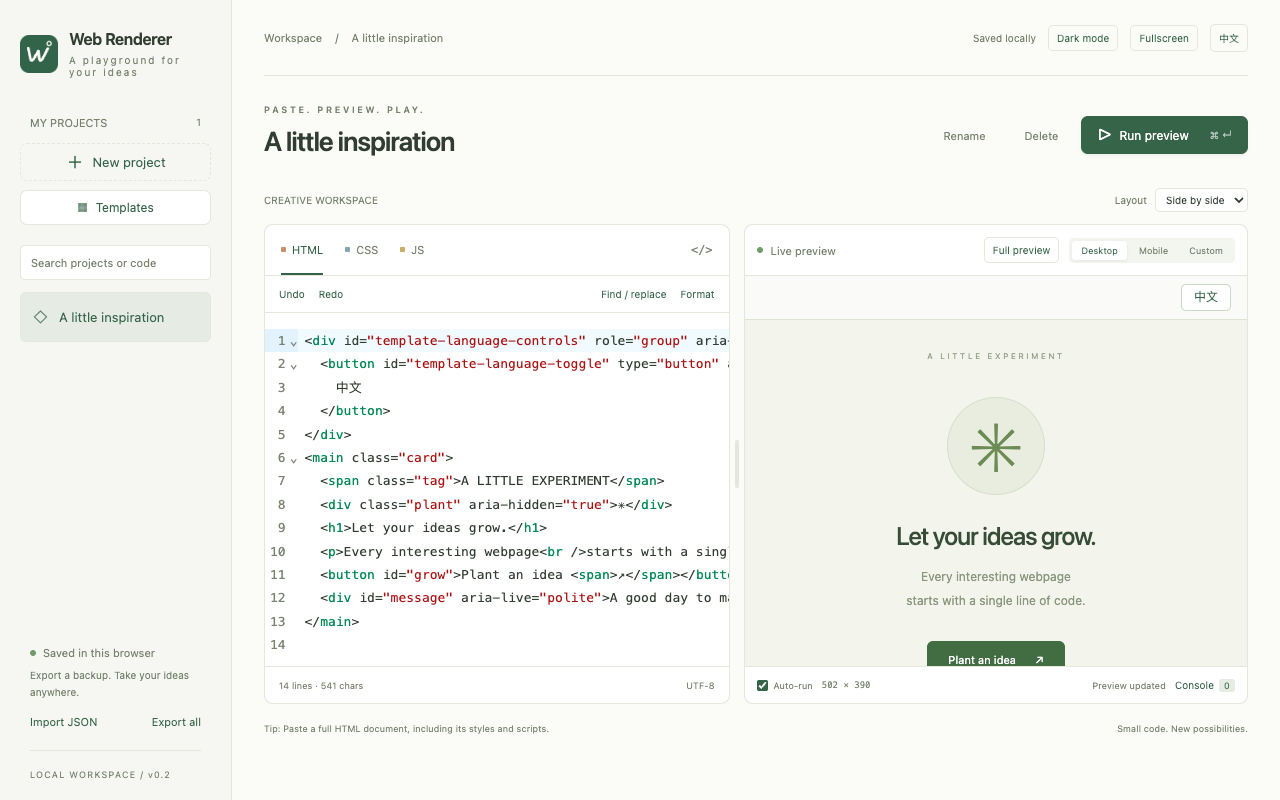
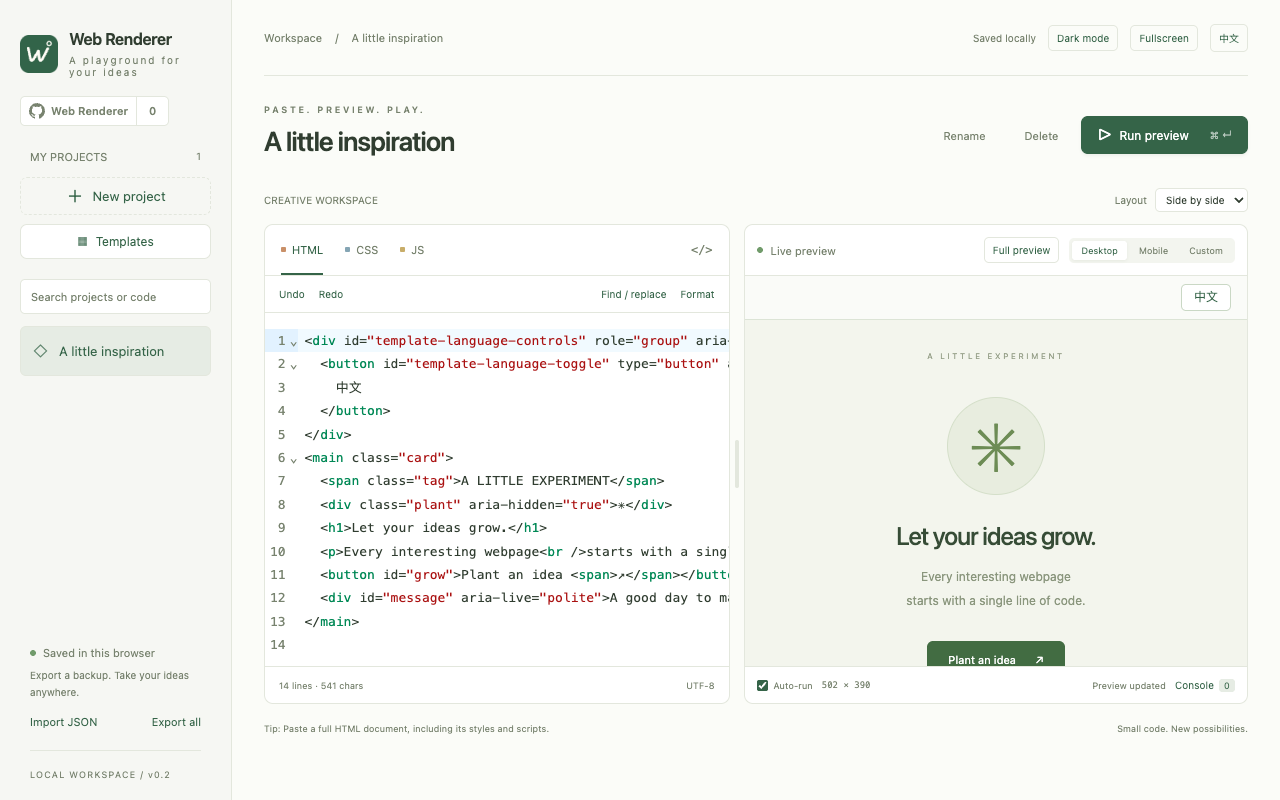
Add Edge install link, GitHub star badge and store screenshots

Changed region(s): [[0.0, 0.1875, 0.1875, 0.4062], [0.0, 0.125, 0.0938, 0.1562], [0.0625, 0.4375, 0.125, 0.4688]]

diff --git a/i18n.js b/i18n.js
@@ -1,5 +1,6 @@
 export const messages = {
   zh: {
+    githubStars: "在 GitHub 查看 Web Renderer · {count} 个 Star（新标签页）", githubCached: "在 GitHub 查看 Web Renderer · {count} 个 Star（缓存，新标签页）", githubUnavailable: "在 GitHub 查看并 Star Web Renderer（数量暂不可用，新标签页）",
     previewTemplate: "预览", templatePreviewTitle: "预览 · {name}", useTemplate: "使用此模板", backToTemplates: "返回模板库", templatePreviewHint: "可直接体验交互，使用模板后编辑代码。",
     resizeConsole: "调整控制台高度", resizeConsoleHint: "上下拖动调整高度，双击恢复默认；也可使用上下方向键",
     templates: "模板库", templatesHint: "选择一个起点，创建属于你的新项目。", close: "关闭", searchProjects: "搜索项目名称或代码", noProjects: "没有找到匹配的项目", workspaceTools: "创作工作台", layout: "布局", sideLayout: "左右分栏", stackedLayout: "上下分栏", resizePanels: "调整编辑区和预览区大小", undo: "撤销", redo: "重做", findReplace: "查找 / 替换", format: "格式化", formatFailed: "无法格式化，请检查代码语法。", formatCancelled: "代码已改变，本次格式化未覆盖新内容。", custom: "自定义", width: "宽", height: "高", rotate: "旋转", console: "控制台", consoleLevel: "级别", allLogs: "全部", normalLogs: "日志", warnings: "警告", errors: "错误", preserveLogs: "保留日志", clear: "清空", collapse: "收起", noLogs: "暂无日志，试试 console.log('Hello')。", consoleNewRun: "── 新一次运行 ──", dayMode: "日间模式", nightMode: "夜间模式",
@@ -7,6 +8,7 @@ export const messages = {
     brandSub: "你的网页实验室", projects: "我的项目", newProject: "新建项目", localOnly: "保存在这台浏览器", backupHint: "导出一份备份，把灵感带到别处。", import: "导入 JSON", export: "导出全部", workspace: "工作空间", rename: "重命名", delete: "删除", run: "运行预览", preview: "实时预览", desktop: "桌面", mobile: "手机", autoRun: "自动运行", runtimeError: "JavaScript 错误", tip: "小提示：完整 HTML 也可以直接粘贴，样式与脚本会一起运行。", footer: "一点代码，一点可能。", projectName: "项目名称", cancel: "取消", confirm: "确定", saved: "已保存到本地", saveFailed: "保存失败，请导出备份", loadFailed: "本地数据暂时无法读取，原始数据已保留。当前修改无法保存，请导出备份。", exampleName: "第一颗灵感", untitled: "未命名项目", lines: "行", chars: "字符", running: "正在渲染…", rendered: "预览已更新", previewFailed: "预览未响应，请重新运行", pending: "代码已修改，待运行", imported: "已导入 {count} 个项目副本", exported: "已导出全部项目", importFailed: "导入失败：请选择有效的 Web Renderer JSON 备份。", tooLarge: "文件过大，请使用 4 MB 以内的 JSON 备份。", projectLimit: "最多支持 100 个项目，请先导出并清理。", confirmDelete: "删除「{name}」？此操作无法撤销，建议先导出备份。", deleted: "项目已删除", synced: "已同步其他标签页的修改", emptyName: "请输入项目名称。", exportFailed: "导出失败，请重试。", previewTitle: "网页预览", errorStatus: "发现脚本错误", backupTooLarge: "数据超过 4 MB，请拆分项目后再保存。"
   },
   en: {
+    githubStars: "View Web Renderer on GitHub · {count} stars (new tab)", githubCached: "View Web Renderer on GitHub · {count} stars (cached, new tab)", githubUnavailable: "View and star Web Renderer on GitHub (count unavailable, new tab)",
     previewTemplate: "Preview", templatePreviewTitle: "Preview · {name}", useTemplate: "Use template", backToTemplates: "Back to templates", templatePreviewHint: "Try the interactions, then use the template to edit its code.",
     resizeConsole: "Resize console height", resizeConsoleHint: "Drag vertically to resize; double-click to reset. Arrow keys also work.",
     templates: "Templates", templatesHint: "Pick a starting point and create a new project.", close: "Close", searchProjects: "Search projects or code", noProjects: "No matching projects", workspaceTools: "CREATIVE WORKSPACE", layout: "Layout", sideLayout: "Side by side", stackedLayout: "Stacked", resizePanels: "Resize editor and preview", undo: "Undo", redo: "Redo", findReplace: "Find / replace", format: "Format", formatFailed: "Cannot format. Check the code syntax.", formatCancelled: "The code changed; formatting was not applied.", custom: "Custom", width: "W", height: "H", rotate: "Rotate", console: "Console", consoleLevel: "Level", allLogs: "All", normalLogs: "Logs", warnings: "Warnings", errors: "Errors", preserveLogs: "Preserve", clear: "Clear", collapse: "Hide", noLogs: "No logs yet. Try console.log('Hello').", consoleNewRun: "── New run ──", dayMode: "Light mode", nightMode: "Dark mode",

diff --git a/tests/github-badge.spec.js b/tests/github-badge.spec.js
@@ -1,0 +1,48 @@
+import { test, expect } from "@playwright/test";
+const url = "http://127.0.0.1:4173";
+const api = "https://api.github.com/repos/kiritokun07/web-renderer";
+const key = "web-renderer.github-stars.v1";
+
+test("GitHub count is credential-free, cached, translated and usable on narrow screens", async ({ page }) => {
+  let requests = 0;
+  await page.route(api, async route => {
+    requests++;
+    expect(route.request().headers().cookie).toBeUndefined();
+    expect(route.request().postData()).toBeNull();
+    await route.fulfill({ json: { stargazers_count: 2051 } });
+  });
+  await page.goto(url);
+  await expect(page.locator(".github-stars")).toHaveText("2,051");
+  await expect(page.locator("#github-link")).toHaveAttribute("href", "https://github.com/kiritokun07/web-renderer");
+  await expect(page.locator("#github-link")).toHaveAttribute("rel", "noopener noreferrer");
+  await page.locator("#language").click();
+  await expect(page.locator("#github-link")).toHaveAttribute("aria-label", /2,051 stars/);
+  await page.reload();
+  await expect(page.locator("#github-link")).toHaveAttribute("title", /cached/);
+  expect(requests).toBe(1);
+  await page.locator("#theme-toggle").click();
+  await page.setViewportSize({ width: 390, height: 844 });
+  await expect(page.locator("#github-link")).toBeVisible();
+  const box = await page.locator("#github-link").boundingBox();
+  expect(box.x + box.width).toBeLessThanOrEqual(390);
+});
+
+test("zero is a valid star count; a failed refresh preserves stale cache", async ({ page }) => {
+  await page.addInitScript(({key}) => localStorage.setItem(key, JSON.stringify({count: 0, at: Date.now() - 86400000})), { key });
+  await page.route(api, route => route.fulfill({ status: 403, json: { message: "rate limited" } }));
+  await page.goto(url);
+  await expect(page.locator(".github-stars")).toHaveText("0");
+  await expect(page.locator("#github-link")).toHaveAttribute("title", /缓存/);
+  await expect(page.locator("#preview-status")).toHaveText("预览已更新");
+});
+
+test("offline or malformed data never invents a count or blocks editing", async ({ page }) => {
+  await page.route(api, route => route.fulfill({ json: { stargazers_count: "invalid" } }));
+  await page.goto(url);
+  await expect(page.locator(".github-stars")).toHaveText("Star");
+  await expect(page.locator("#preview-status")).toHaveText("预览已更新");
+  await page.route(api, route => route.abort("internetdisconnected"));
+  await page.reload();
+  await expect(page.locator(".github-stars")).toHaveText("Star");
+  await expect(page.locator("#preview-status")).toHaveText("预览已更新");
+});

diff --git a/github-badge.js b/github-badge.js
@@ -1,0 +1,42 @@
+const API = "https://api.github.com/repos/kiritokun07/web-renderer";
+const CACHE_KEY = "web-renderer.github-stars.v1";
+const CACHE_AGE = 6 * 60 * 60 * 1000;
+const validCount = value => Number.isSafeInteger(value) && value >= 0;
+
+export function createGithubBadge(link, t) {
+  const count = link.querySelector(".github-stars");
+  let stars = null;
+  let cached = false;
+  const refresh = () => {
+    count.textContent = stars === null ? "Star" : stars.toLocaleString("en-US");
+    const label = stars === null ? t("githubUnavailable") : t(cached ? "githubCached" : "githubStars", { count: count.textContent });
+    link.title = label;
+    link.setAttribute("aria-label", label);
+  };
+  const load = async () => {
+    let saved;
+    try { saved = JSON.parse(localStorage.getItem(CACHE_KEY)); } catch { /* Storage may be unavailable. */ }
+    if (validCount(saved?.count) && Number.isFinite(saved?.at) && saved.at <= Date.now()) {
+      stars = saved.count;
+      cached = true;
+      refresh();
+      if (Date.now() - saved.at < CACHE_AGE) return;
+    }
+    const controller = new AbortController();
+    const timer = setTimeout(() => controller.abort(), 5000);
+    try {
+      // Public CORS API only: no token, cookies, project data or host permissions.
+      const response = await fetch(API, { credentials: "omit", referrerPolicy: "no-referrer", signal: controller.signal });
+      if (!response.ok) throw new Error("GitHub is unavailable");
+      const data = await response.json();
+      if (!validCount(data.stargazers_count)) throw new Error("Invalid star count");
+      stars = data.stargazers_count;
+      cached = false;
+      try { localStorage.setItem(CACHE_KEY, JSON.stringify({ count: stars, at: Date.now() })); } catch { /* Keep the count in memory. */ }
+    } catch { /* Keep cached data or a usable Star link; never block the editor. */ }
+    finally { clearTimeout(timer); refresh(); }
+  };
+  refresh();
+  void load();
+  return { refresh };
+}

diff --git a/index.html b/index.html
@@ -12,6 +12,9 @@
 <body>
   <aside class="sidebar">
     <a class="brand" href="index.html" aria-label="Web Renderer"><img class="brand-mark" src="icons/icon-48.png" alt="" width="38" height="38"><span>Web Renderer<small data-i18n="brandSub">你的网页实验室</small></span></a>
+    <a id="github-link" class="github-badge" href="https://github.com/kiritokun07/web-renderer" target="_blank" rel="noopener noreferrer" aria-label="在 GitHub 查看 Web Renderer">
+      <span class="github-repo"><svg viewBox="0 0 16 16" width="16" height="16" aria-hidden="true"><path fill="currentColor" d="M8 0C3.58 0 0 3.58 0 8c0 3.54 2.29 6.53 5.47 7.59.4.07.55-.17.55-.38l-.01-1.49c-2.23.48-2.7-1.08-2.7-1.08-.36-.92-.89-1.17-.89-1.17-.73-.5.06-.49.06-.49.8.06 1.22.82 1.22.82.71 1.22 1.87.87 2.33.67.07-.52.28-.87.51-1.07-1.78-.2-3.64-.89-3.64-3.95 0-.87.31-1.59.82-2.15-.08-.2-.36-1.02.08-2.12 0 0 .67-.21 2.2.82A7.65 7.65 0 0 1 8 3.73c.68 0 1.36.09 2 .27 1.53-1.03 2.2-.82 2.2-.82.44 1.1.16 1.92.08 2.12.51.56.82 1.28.82 2.15 0 3.07-1.87 3.75-3.65 3.95.29.25.54.73.54 1.48l-.01 2.33c0 .21.15.46.55.38A8.01 8.01 0 0 0 16 8c0-4.42-3.58-8-8-8Z"/></svg><span>Web Renderer</span></span><span class="github-stars">Star</span>
+    </a>
     <div class="sidebar-heading"><span data-i18n="projects">我的项目</span><span id="project-count" class="count">1</span></div>
     <button id="new-project" class="button new-project"><span aria-hidden="true">＋</span><span data-i18n="newProject">新建项目</span></button>
     <button id="open-templates" class="button templates-button"><span aria-hidden="true">▦</span><span data-i18n="templates">模板库</span></button>

diff --git a/styles.css b/styles.css
@@ -194,3 +194,13 @@ dialog { background: var(--panel); }
   .top-actions button { font-size: 9px; }
 }
 @media (max-width: 400px) { .template-grid { grid-template-columns: 1fr; } .preview-panel .panel-toolbar { padding: 9px; } .device-button { padding: 4px 6px; } }
+
+/* Compact repository + star count, using workspace colors in both themes. */
+.github-badge { display: inline-flex; align-self: flex-start; align-items: stretch; max-width: 100%; margin-top: 18px; border: 1px solid var(--line); border-radius: 5px; color: var(--muted); background: var(--panel); text-decoration: none; font-size: 11px; font-weight: 600; line-height: 28px; }
+.github-badge:hover { color: var(--green); border-color: var(--green); background: var(--surface); }
+.github-repo { display: inline-flex; align-items: center; gap: 6px; padding: 0 8px; min-width: 0; }
+.github-repo svg { flex-shrink: 0; }
+.github-repo span { overflow: hidden; text-overflow: ellipsis; white-space: nowrap; }
+.github-stars { border-left: 1px solid var(--line); padding: 0 8px; min-width: 32px; text-align: center; font-variant-numeric: tabular-nums; }
+.github-badge + .sidebar-heading { margin-top: 24px; }
+@media (max-width: 800px) { .github-badge { grid-column: 1 / -1; grid-row: 3; justify-self: start; margin-top: 0; } }

diff --git a/app.js b/app.js
@@ -8,6 +8,7 @@ import { templates } from "./templates.js";
 import { builtinCode } from "./builtin-code.js";
 import { createTemplatePreview } from "./template-preview.js";
 import { legacyTemplateCode } from "./legacy-template-code.js";
+import { createGithubBadge } from "./github-badge.js";
 
 const $ = selector => document.querySelector(selector);
 const preview = $("#preview");
@@ -50,6 +51,7 @@ const editor = createCodeEditor($("#code-editor"), handleCodeChange);
 const debugConsole = createConsolePanel(t, () => state.preferences, save);
 const previewLayout = createPreviewLayout(() => state.preferences, save, t);
 const templatePreview = createTemplatePreview(t);
+const githubBadge = createGithubBadge($("#github-link"), t);
 
 function toast(message) {
   clearTimeout(toastTimer);
@@ -184,6 +186,7 @@ function showProject() {
 }
 
 function translate() {
+  githubBadge.refresh();
   document.documentElement.lang = state.language === "zh" ? "zh-CN" : "en";
   document.querySelectorAll("[data-i18n]").forEach(element => { element.textContent = t(element.dataset.i18n); });
   document.querySelectorAll("[data-i18n-placeholder]").forEach(element => { element.placeholder = t(element.dataset.i18nPlaceholder); element.setAttribute("aria-label", element.placeholder); });

diff --git a/README.md b/README.md
@@ -1,5 +1,9 @@
 # Web Renderer · 网页渲染工具
 
+[**从 Microsoft Edge 商店安装 / Install from Edge Add-ons →**](https://microsoftedge.microsoft.com/addons/detail/jmlcddodoomgbdkflcclldioiphngaaa)
+
+已正式上架 Edge，点击链接即可安装，无需打开开发者模式。
+
 一个用于学习、试验和制作网页原型的浏览器扩展：粘贴 HTML / CSS / JavaScript，在右侧运行网页，把不同实验保存为项目。
 
 原生 HTML、CSS、JavaScript 工作台，使用本地打包的 CodeMirror 编辑器和 Prettier 格式化器。Chrome / Edge 扩展和本地网页版使用同一套页面。已包含 `vendor/` 构建产物，可直接加载使用，不依赖 CDN。
@@ -13,7 +17,7 @@ cd web-renderer
 
 也可以在仓库页面选择 **Code → Download ZIP**，解压后使用项目文件夹。
 
-## 先安装到浏览器（不需要 npm）
+## 开发者本地安装（不需要 npm）
 
 1. Chrome 地址栏输入 `chrome://extensions`；Edge 输入 `edge://extensions`。
 2. 打开右上角的「开发者模式」。
@@ -39,6 +43,7 @@ npm start
 
 ## 可以做什么
 
+- 左上角 GitHub 入口可打开项目仓库并查看 Star 数；公开计数缓存 6 小时，离线时显示缓存或 Star 入口，不影响编辑。
 - 编辑 HTML、CSS、JavaScript；HTML 支持片段和带内联样式、脚本的完整文档。
 - CodeMirror 编辑器提供语法高亮、补全、括号配对、自动缩进、代码折叠、查找替换和撤销/重做。项目与 HTML/CSS/JS 标签分别保留本次会话的编辑记录；「格式化」使用本地 Prettier。
 - 自动运行（停顿 550 毫秒），或关闭自动运行后点按钮 / 按 `⌘ Enter`、`Ctrl Enter`。
@@ -109,7 +114,7 @@ npm start
 
 ## 原型边界
 
-当前已发布到 [GitHub](https://github.com/kiritokun07/web-renderer)，并准备了 Edge Add-ons 商店候选包；尚未提交商店审核或正式上架。
+已上架 [Microsoft Edge Add-ons](https://microsoftedge.microsoft.com/addons/detail/jmlcddodoomgbdkflcclldioiphngaaa)，源码发布于 [GitHub](https://github.com/kiritokun07/web-renderer)。
 
 - 用户的预览项目不支持 npm 安装、JSX/TypeScript 编译、多文件路径或远程 JavaScript/CDN 库。
 - 沙箱中的用户代码不能访问 `localStorage`、扩展 API、顶层页面，不能弹窗、下载或提交表单；普通按钮和 DOM 交互可运行。手机模式只模拟视口尺寸，不模拟触摸、设备像素比或真实手机设备。
@@ -129,7 +134,7 @@ npm run package:edge
 npm run verify:edge
 ```
 
-上传 `dist/web-renderer-edge-0.2.0.zip`，不要上传 GitHub 源码 ZIP。验证脚本使用本机 Microsoft Edge 和独立临时浏览器配置，直接检查 ZIP 中的运行文件；`npm run screenshots:store` 重新生成两种语言的商店截图。
+上传 `dist/web-renderer-edge-0.2.1.zip`，不要上传 GitHub 源码 ZIP。验证脚本使用本机 Microsoft Edge 和独立临时浏览器配置，直接检查 ZIP 中的运行文件；`npm run screenshots:store` 重新生成两种语言的商店截图。
 
 隐私政策链接：[PRIVACY.md](https://github.com/kiritokun07/web-renderer/blob/main/PRIVACY.md)。维护者不接收项目、日志或偏好数据；你运行的代码引用外部资源时可能联网，详情见隐私说明。
 
@@ -162,8 +167,8 @@ npm test
 
 ## English
 
-A local-first HTML/CSS/JavaScript playground and Manifest V3 browser extension with bundled CodeMirror and Prettier. Load this folder as an unpacked extension in Chrome or Edge, then click its toolbar icon. Or run `npm start` and open <http://127.0.0.1:4173>. The included `vendor/` assets work offline without installing dependencies; run `npm ci && npm run build` when changing the editor source.
+A local-first HTML/CSS/JavaScript playground and Manifest V3 browser extension with bundled CodeMirror and Prettier. [Install from Microsoft Edge Add-ons](https://microsoftedge.microsoft.com/addons/detail/jmlcddodoomgbdkflcclldioiphngaaa), then click its toolbar icon. For development, load this folder as an unpacked extension in Chrome or Edge. Or run `npm start` and open <http://127.0.0.1:4173>. The included `vendor/` assets work offline without installing dependencies; run `npm ci && npm run build` when changing the editor source.
 
 Includes syntax highlighting, completion, formatting, per-file undo history, find/replace, a filtered console, project search, nine templates, resizable layouts, custom viewport sizes and light/dark themes. New templates include a resume, a company website and an admin dashboard. The dashboard prefills `admin / admin123` for a local demo login, with overview, users, orders, settings and sign-out. Workspace preferences persist; project content remains compatible with v0.1 backups.
 
-Projects are stored locally in each browser/origin. Export JSON backups to move them; importing appends copies. Switch the UI language with the top-right button. Preview code runs in an isolated sandbox without extension APIs or workspace storage. Remote JavaScript libraries, npm/JSX/TypeScript compilation and hosting are not supported. An Edge Add-ons submission package, store assets and a bilingual [privacy policy](PRIVACY.md) are included; the extension has not yet been submitted or published in the store. See the [release guide](store/README.md).
+Projects are stored locally in each browser/origin. Export JSON backups to move them; importing appends copies. Switch the UI language with the top-right button. Preview code runs in an isolated sandbox without extension APIs or workspace storage. Remote JavaScript libraries, npm/JSX/TypeScript compilation and hosting are not supported. An Edge Add-ons submission package, store assets and a bilingual [privacy policy](PRIVACY.md) are included; the extension is available on [Microsoft Edge Add-ons](https://microsoftedge.microsoft.com/addons/detail/jmlcddodoomgbdkflcclldioiphngaaa). See the [release guide](store/README.md).

diff --git a/PRIVACY.md b/PRIVACY.md
@@ -1,8 +1,8 @@
 # Web Renderer 隐私说明 / Privacy Policy
 
-生效日期 / Effective date: 2026-10-03
+生效日期 / Effective date: 2026-10-04
 
-Web Renderer 由 GitHub 用户 [kiritokun07](https://github.com/kiritokun07) 维护，是用于编辑和预览 HTML、CSS、JavaScript 的浏览器扩展。此说明适用于仓库发布的 0.2.0 版本。
+Web Renderer 由 GitHub 用户 [kiritokun07](https://github.com/kiritokun07) 维护，是用于编辑和预览 HTML、CSS、JavaScript 的浏览器扩展。此说明适用于仓库发布的 0.2.1 版本。
 
 ## 中文
 
@@ -18,6 +18,8 @@ Web Renderer 由 GitHub 用户 [kiritokun07](https://github.com/kiritokun07) 维
 
 如果你在自己的代码中引用外部图片、样式、字体、链接或发起网络请求，浏览器仍可能连接这些第三方服务，并向其发送 IP 地址以及请求中包含的数据。网络是否成功取决于浏览器的安全策略和跨域限制。这些请求由你运行的代码决定，不会经过维护者的服务器；第三方如何处理数据适用其自身隐私政策。
 
+GitHub 入口会向 `api.github.com` 请求此公开仓库的 Star 数，并将计数及获取时间缓存 6 小时。请求不包含项目、代码或日志，不发送登录凭据或 Cookie；GitHub 仍会收到连接所需的 IP 地址等网络信息。网络不可用时使用缓存或显示 Star 入口，编辑功能不受影响。点击仓库链接会在新标签页打开 GitHub，其数据处理适用 [GitHub 隐私政策](https://docs.github.com/en/site-policy/privacy-policies/github-general-privacy-statement)。
+
 ### 导入、导出和删除
 
 只有你选择导入的 JSON 文件会被读取，并在本地处理。导出会将项目保存成设备上的 JSON 文件，不会自动上传。删除项目会移除应用中保存的相应项目；清除扩展数据或卸载扩展可能移除全部项目和偏好。你自行导出的备份文件需要自行删除。建议卸载、重装或切换安装方式前先导出备份。
@@ -28,7 +30,7 @@ Web Renderer 由 GitHub 用户 [kiritokun07](https://github.com/kiritokun07) 维
 
 ## English
 
-Web Renderer is maintained by [kiritokun07](https://github.com/kiritokun07). This policy covers version 0.2.0 distributed from this repository.
+Web Renderer is maintained by [kiritokun07](https://github.com/kiritokun07). This policy covers version 0.2.1 distributed from this repository.
 
 ### Local data
 
@@ -41,6 +43,8 @@ The maintainer does not receive, upload or sell projects or logs. The extension 
 The editor, formatter and built-in templates are bundled locally. Default examples work offline. User code runs in a separate sandbox without access to workspace data, other projects or extension APIs. Remote JavaScript loading is restricted by Content Security Policy and is not a supported feature.
 
 If your code references external images, styles, fonts or links, or initiates network requests, your browser may contact third parties and send your IP address and data included in those requests. Browser security and cross-origin restrictions determine which requests succeed. Such requests originate from the code you run and do not pass through the maintainer's servers. Third parties' own privacy policies apply to their handling of that data.
+
+The GitHub link requests this public repository's star count from `api.github.com` and caches the count and retrieval time for six hours. Requests contain no projects, code or logs and send no login credentials or cookies. GitHub receives network information such as your IP address needed for the connection. Offline, the badge shows cached data or a Star link without affecting editing. Clicking the link opens GitHub in a new tab, subject to [GitHub's privacy policy](https://docs.github.com/en/site-policy/privacy-policies/github-general-privacy-statement).
 
 ### Import, export and deletion
 
